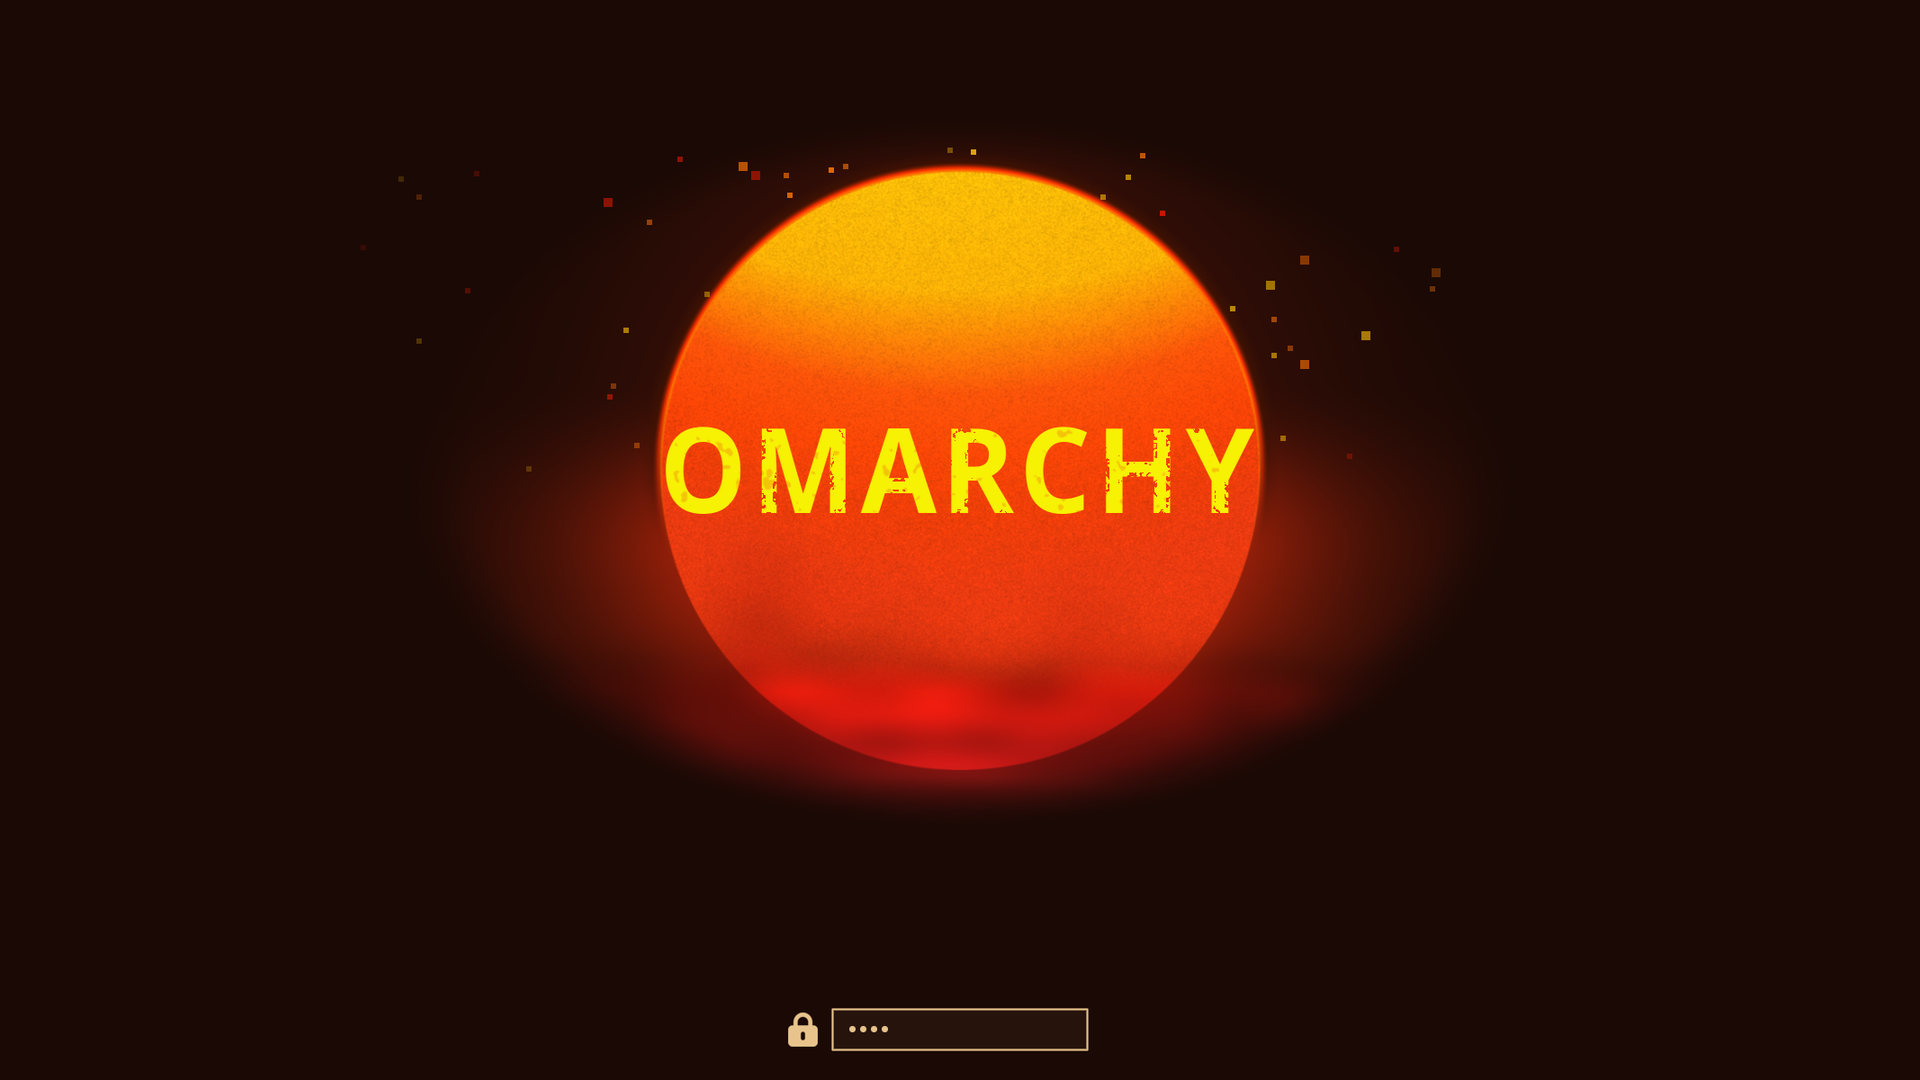
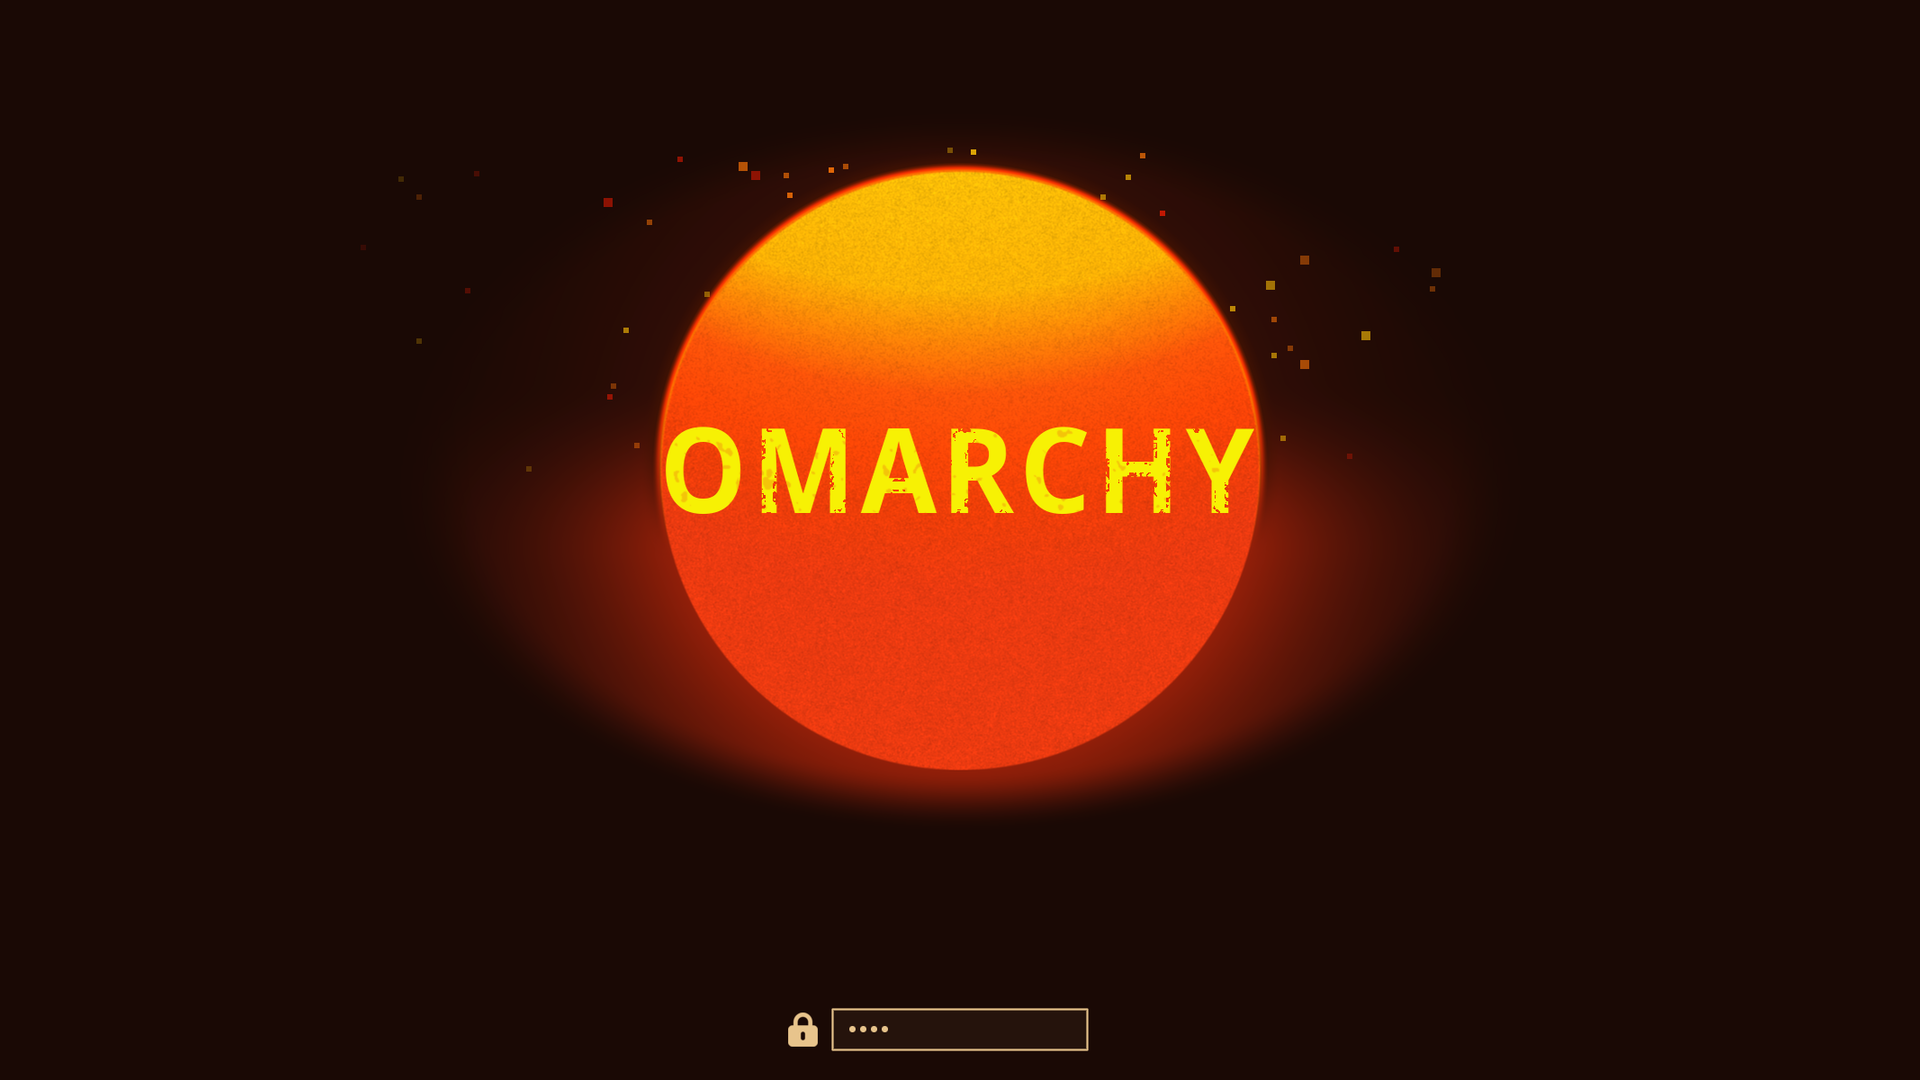
Unlock screen: plain sun, with no haze, ground or farmhouse
The unlock screen no longer has to match the wallpaper below the sun.
verify-sun.py builds its reference wallpaper with SINNERS_GROUND=0.

Claude-Session: https://claude.ai/code/session_01RawmEmizDiTRtJyDdbwuyW

Changed region(s): [[0.375, 0.55, 0.625, 0.7639]]

diff --git a/tools/verify-sun.py b/tools/verify-sun.py
@@ -3,7 +3,8 @@
 
 usage: verify-sun.py [WIDTHxHEIGHT]      default 1920x1200. Takes about two minutes: it renders two 4K images.
 
-It builds the sun-only logo and a grain-free copy of the wallpaper with the same scripts, scales the wallpaper to
+It builds the sun-only logo and a copy of the wallpaper with the same scripts, without its grain, haze, ground and
+figures (the unlock screen does not carry those, so the sun is compared as it is above them), scales the wallpaper to
 the screen the way Omarchy does, lays the logo over it where Plymouth would put it, and reports:
   1. the largest colour difference anywhere inside the disc (0-255; 0 or 1 is rounding), and
   2. the disc's left, right and top edges measured in the image, against the geometry computed from Omarchy's
@@ -28,9 +29,9 @@ tmp = tempfile.mkdtemp(prefix='verify-sun.')
 w = lambda n: os.path.join(tmp, n)
 print(f'screen {SCREEN}: the sun should be at ({exp_cx:.1f}, {exp_cy:.1f}) with radius {exp_r:.1f}')
 
-# the grain-free wallpaper, built from the same script with only the grain line removed
+# the wallpaper without its grain, haze, ground and figures: the same script, with the grain line removed and SINNERS_GROUND=0
 open(w('nograin.sh'), 'w').write('\n'.join(l for l in src.split('\n') if 'grain.png -compose Overlay -composite' not in l))
-run('bash', w('nograin.sh'), w('ref4k.png'))
+run('env', 'SINNERS_GROUND=0', 'bash', w('nograin.sh'), w('ref4k.png'))
 run('python3', '-I', os.path.join(HERE, 'sun-unlock.py'), '--screen', SCREEN, '--layer', w('ref4k.png'), '--embers', '0',
     '--out', w('ignore.png'), '--screen-layer', w('ref_screen.png'))
 run('python3', '-I', os.path.join(HERE, 'sun-unlock.py'), '--screen', SCREEN, '--embers', '0', '--out', w('logo.png'))
